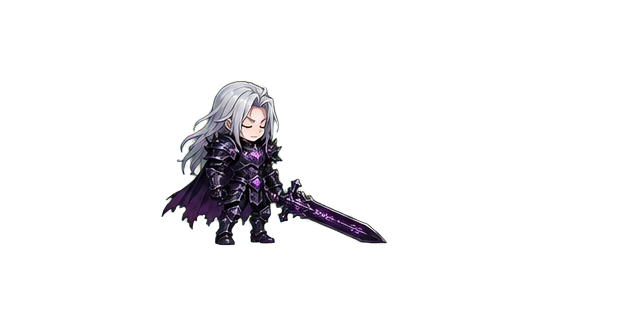
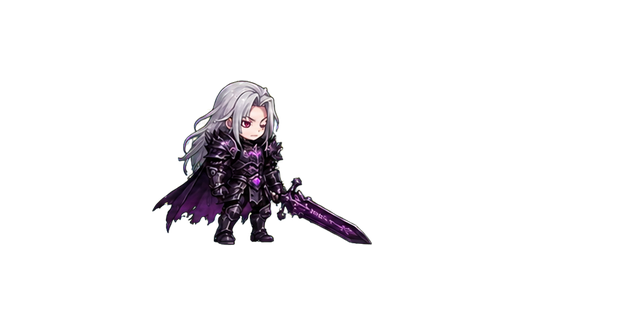
換上死亡騎士「自然呼吸版」IDLE，走已修正過的流程處理 (v11.8.1)
來源：死亡騎士_20動作_自然呼吸版.zip，sprite-info.json 新增
idleMotion:{type:"stableBreathing", lateralSway:false, feetLocked:true}，
實測 6 張 idle 的內容框高度從原本的 166~216（兩張頭髮甩很開的離群值）
收斂到 166~171，不再有離群值。

照已經修好的流程處理（不重犯之前的錯誤）：
- scripts/import-hero-redo-v2.mjs：整個角色（4 個狀態、20 張圖）共用同一
  個聯集裁切框，不分狀態獨立裁切。裁切框結果跟上一版幾乎一樣（621x324），
  因為 skill 法術特效本來就比 idle 離群值更大，一直是真正撐開共用框的
  來源，這次修正主要是畫質/呼吸手感自然，不是裁切框尺寸本身的問題。
- scripts/compose-hero-spritesheet.mjs：回合制那 6 張改用的 idle_1~4
  設定沿用不變（新素材已經沒有離群值，這組選擇本來就正確）。
- data.ts 的 H() 尺寸宣告、manifest.json 同步更新成新的合成結果。
- 逐幀圖／sprite sheet 檔名重複使用，套用既有的 versionedAsset()/
  versioned() 版號機制，不用擔心 CDN 邊緣快取殘留。

vite.config 的 game-assets cacheName v25→v26。

Changed region(s): [[0.2448, 0.2469, 0.6425, 0.7716]]

diff --git a/src/data.ts b/src/data.ts
@@ -154,10 +154,10 @@ export const HEROES: Hero[] = [
   // 死亡騎士（2026-08 取代訓獸師，見設計文件 Migration 方案）：真實素材已處理
   // （process-transparent-frames.mjs + compose-hero-spritesheet.mjs），尺寸來自
   // 實際輸出的 sprite sheet。
-  { id: 'death_knight', name: '死亡騎士', title: '嗜血搏命', hp: 145, atk: 27, def: 10, role: 'death', school: 'physical', skill: '噬魂斬', desc: '血量越低傷害越高，攻擊疊血印進入血腥狀態獲得吸血與增傷。', sprite: H('death_knight', 296, 184), portrait: '/assets/portraits/death_knight.png', avatar: '/assets/avatars/death_knight.jpg',
+  { id: 'death_knight', name: '死亡騎士', title: '嗜血搏命', hp: 145, atk: 27, def: 10, role: 'death', school: 'physical', skill: '噬魂斬', desc: '血量越低傷害越高，攻擊疊血印進入血腥狀態獲得吸血與增傷。', sprite: H('death_knight', 280, 184), portrait: '/assets/portraits/death_knight.png', avatar: '/assets/avatars/death_knight.jpg',
     story: '曾是某個王國最忠誠的騎士，直到那個王國在一夜之間被自己人出賣、屠盡。他在屍山中甦醒，帶著半死不活的身軀與再也止不住的憤怒，從此不再守護誰，只憑一口尚未熄滅的恨意向前廝殺——血流得越多，他反而站得越穩。',
     heightCm: 190, weightKg: 88, age: '?', race: '不死者', element: '暗',
-    starSprites: [H('death_knight_s0', 309, 192), H('death_knight_s1', 309, 192), H('death_knight_s2', 309, 192), H('death_knight_s3', 309, 192)] },
+    starSprites: [H('death_knight_s0', 297, 195), H('death_knight_s1', 297, 195), H('death_knight_s2', 297, 195), H('death_knight_s3', 297, 195)] },
   { id: 'engineer', name: '機關技師', title: '機械火力', hp: 120, atk: 23, def: 8, role: 'gear', school: 'physical', skill: '蒸氣砲擊', desc: '兩對以上時機關炮追加固定傷害。', sprite: H('engineer', 279, 184), portrait: '/assets/portraits/engineer.png', avatar: '/assets/avatars/engineer.jpg',
     story: '自幼在廢棄兵工廠裡長大，靠拆解與重組舊時代的兵器維生，久而久之，比起活人，她似乎更擅長和齒輪、蒸氣管線對話。她從不相信天賦這種東西，只相信只要拆得夠多、修得夠久，任何一台廢鐵都能重新開火——包括她自己。',
     heightCm: 156, weightKg: 45, age: '21', race: '人類', element: '機械',

diff --git a/vite.config.js b/vite.config.js
@@ -96,7 +96,7 @@ export default defineConfig({
                         urlPattern: /\/assets\//,
                         handler: 'StaleWhileRevalidate',
                         options: {
-                            cacheName: 'game-assets-v25',
+                            cacheName: 'game-assets-v26',
                             expiration: {
                                 maxEntries: 200,
                                 maxAgeSeconds: 60 * 60 * 24 * 7,

diff --git a/vite.config.ts b/vite.config.ts
@@ -99,7 +99,7 @@ export default defineConfig({
             urlPattern: /\/assets\//,
             handler: 'StaleWhileRevalidate',
             options: {
-              cacheName: 'game-assets-v25',
+              cacheName: 'game-assets-v26',
               expiration: {
                 maxEntries: 200,
                 maxAgeSeconds: 60 * 60 * 24 * 7,
